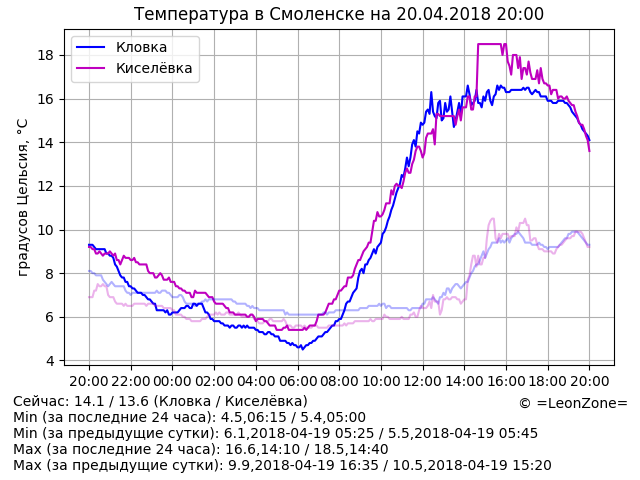
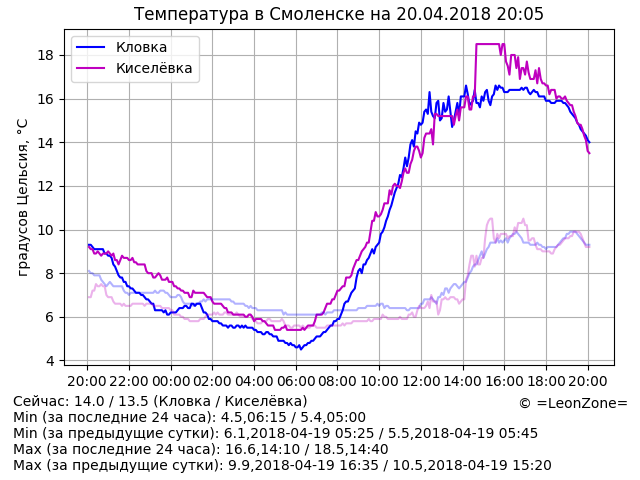
Update data

diff --git a/index.html b/index.html
@@ -14,7 +14,7 @@
 	<p align="center"><script>document.write("<img src=\"graph.png?rnd="+Math.random()+"\" alt=\"Температура в Смоленске\" align=\"middle\" width=\"640\" height=\"480\" />")</script>
 	<p hidden="true">
 <!-- textinfo -->
-Сейчас: 14.1 / 13.6 (Кловка / Киселёвка)
+Сейчас: 14.0 / 13.5 (Кловка / Киселёвка)
 Min (за последние 24 часа): 4.5,06:15 / 5.4,05:00
 Min (за предыдущие сутки): 6.1,2018-04-19 05:25 / 5.5,2018-04-19 05:45
 Max (за последние 24 часа): 16.6,14:10 / 18.5,14:40
